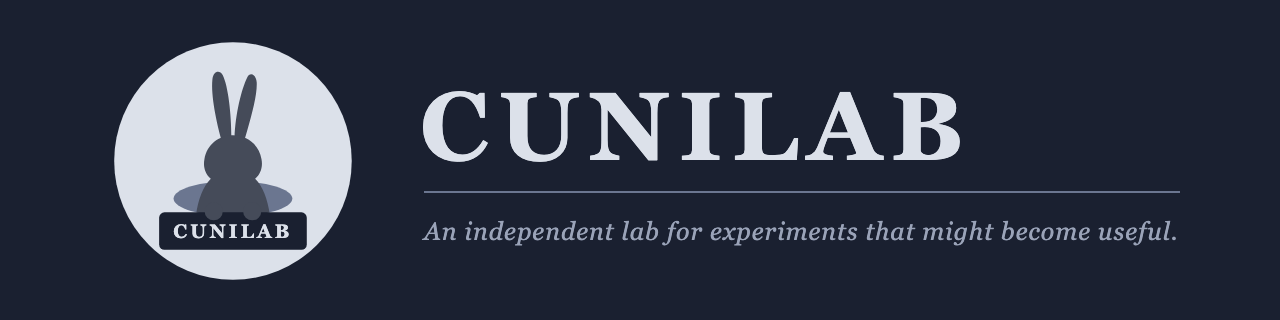
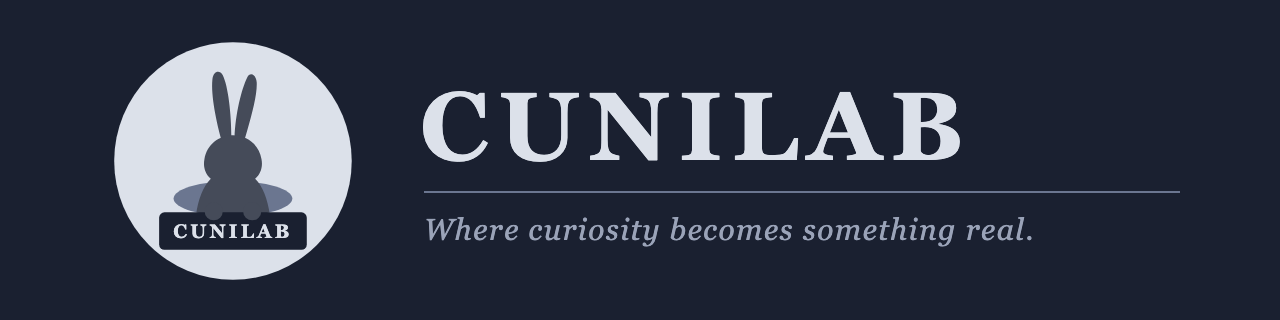
Broaden wording to stay open to any future direction
Drop "independent" and the location, use the new tagline "Where curiosity
becomes something real.", and soften lines that ruled out products,
private work, or planned projects.

Changed region(s): [[0.3125, 0.6875, 0.9375, 0.7812]]

diff --git a/profile/README.md b/profile/README.md
@@ -2,11 +2,11 @@
 
 <div align="center">
 
-<img src="https://raw.githubusercontent.com/cunilab/.github/main/profile/assets/cunilab-banner.png" alt="Cunilab: an independent lab for experiments that might become useful" width="100%">
+<img src="https://raw.githubusercontent.com/cunilab/.github/main/profile/assets/cunilab-banner.png" alt="Cunilab: where curiosity becomes something real" width="100%">
 
 **Ask. Test. Build. Learn. Repeat.**
 
-*Jakarta, Indonesia · Since 2025*
+*Since 2025*
 
 [Repositories](https://github.com/orgs/cunilab/repositories) · [Website](https://cunilab.github.io) · [Contact](mailto:andresholivin01@gmail.com)
 
@@ -32,8 +32,8 @@ and come back with something real.
 
 That question is where every experiment here starts.
 
-We don't start with a product plan. We start with curiosity, turn it into an
-experiment, and build just enough to see what's real.
+Sometimes it starts with a question, sometimes with a problem or a plan.
+Either way, we turn it into an experiment and build just enough to see what's real.
 Some experiments become tools. Some become knowledge. Some fail, and that's
 data too.
 
@@ -72,10 +72,10 @@ explorer time.
 
 ## Lab rules
 
-- **Curiosity over roadmap.** The subject can change; the method doesn't.
+- **Curiosity first.** The subject can change; the method doesn't.
 - **Small and real beats big and imagined.**
 - **Failure is recorded, not hidden.**
-- **Open by default.** If it's useful, share it.
+- **Share what helps.** If it's useful, let others use it.
 
 ---
 

diff --git a/CONTRIBUTING.md b/CONTRIBUTING.md
@@ -1,6 +1,6 @@
 # Contributing to Cunilab
 
-Thanks for your interest in contributing! Cunilab projects are open-source and welcome PRs, issues, and discussion.
+Thanks for your interest in contributing! Many Cunilab projects are open source and welcome PRs, issues, and discussion.
 
 ## Quick start
 
